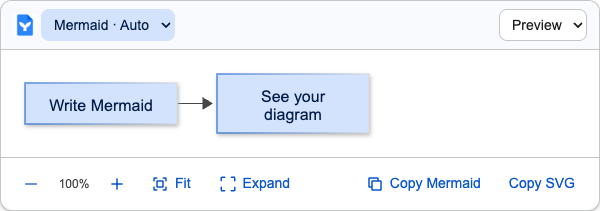
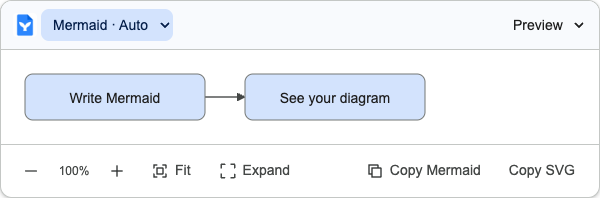
feat: unify Workspace styling across extension UI and diagrams

diff --git a/src/mermaid/themes.ts b/src/mermaid/themes.ts
@@ -1,0 +1,95 @@
+import { diagramSeries, geometry, palettes, type DesignTheme } from '../styles/design-tokens';
+export function mermaidTheme(theme: DesignTheme) {
+  const p = palettes[theme];
+  const series = diagramSeries[theme];
+  const categorical = Object.fromEntries(Array.from({ length: 12 }, (_, i) => [
+    [`cScale${i}`, series[i % series.length]], [`cScaleLabel${i}`, p.onSurface],
+    [`pie${i + 1}`, series[i % series.length]],
+    [`git${i}`, series[i % series.length]], [`gitBranchLabel${i}`, p.onSurface],
+    [`fillType${i}`, series[i % series.length]],
+  ]).flat());
+  return {
+    ...categorical,
+    darkMode: theme === 'dark', fontFamily: geometry.font, fontSize: '14px',
+    background: p.surface, textColor: p.onSurface,
+    primaryColor: p.primaryContainer, primaryTextColor: p.onPrimaryContainer, primaryBorderColor: p.outline,
+    secondaryColor: p.surfaceContainer, secondaryTextColor: p.onSurface, secondaryBorderColor: p.outline,
+    tertiaryColor: p.surfaceContainerLow, tertiaryTextColor: p.onSurface, tertiaryBorderColor: p.outlineVariant,
+    lineColor: p.onSurfaceVariant, defaultLinkColor: p.onSurfaceVariant,
+    nodeBorder: p.outline, mainBkg: p.primaryContainer,
+    clusterBkg: p.surfaceContainerLow, clusterBorder: p.outlineVariant,
+    edgeLabelBackground: p.surface,
+    actorBkg: p.primaryContainer, actorBorder: p.outline, actorTextColor: p.onPrimaryContainer,
+    actorLineColor: p.outline, signalColor: p.onSurfaceVariant, signalTextColor: p.onSurface,
+    labelBoxBkgColor: p.surfaceContainer, labelBoxBorderColor: p.outlineVariant, labelTextColor: p.onSurface,
+    loopTextColor: p.onSurface,
+    noteBkgColor: p.surfaceContainer, noteBorderColor: p.outlineVariant, noteTextColor: p.onSurface,
+    activationBkgColor: p.primaryContainer, activationBorderColor: p.outline,
+    classText: p.onSurface, nodeTextColor: p.onSurface,
+    labelColor: p.onSurface, relationColor: p.onSurfaceVariant, relationLabelColor: p.onSurface,
+    transitionColor: p.onSurfaceVariant, transitionLabelColor: p.onSurface,
+    stateBkg: p.primaryContainer, stateBorder: p.outline,
+    compositeBackground: p.surfaceContainerLow, compositeBorder: p.outlineVariant,
+    stateLabelColor: p.onSurface, labelBackgroundColor: p.surface,
+    compositeTitleBackground: p.surfaceContainer, altBackground: p.surfaceContainer,
+    personBkg: p.primaryContainer, personBorder: p.outline,
+    rowOdd: p.surface, rowEven: p.surfaceContainerLow,
+    taskBkgColor: p.primaryContainer, taskBorderColor: p.outline,
+    activeTaskBkgColor: p.primaryContainer, activeTaskBorderColor: p.primary,
+    doneTaskBkgColor: p.surfaceContainer, doneTaskBorderColor: p.outline,
+    critBkgColor: p.errorContainer, critBorderColor: p.error,
+    sectionBkgColor: p.surfaceContainerLow, sectionBkgColor2: p.surfaceContainer,
+    altSectionBkgColor: p.surface, gridColor: p.outlineVariant, todayLineColor: p.primary,
+    taskTextColor: p.onSurface, taskTextOutsideColor: p.onSurface,
+    taskTextLightColor: p.onSurface, taskTextDarkColor: p.onSurface,
+    pieTitleTextColor: p.onSurface, pieLegendTextColor: p.onSurface, pieSectionTextColor: p.onSurface,
+    pieStrokeColor: p.surface, pieStrokeWidth: '1px', pieOuterStrokeColor: p.outlineVariant, pieOuterStrokeWidth: '1px',
+    quadrant1Fill: p.surfaceContainerLow, quadrant2Fill: p.primaryContainer,
+    quadrant3Fill: p.surfaceContainer, quadrant4Fill: p.surface,
+    quadrant1TextFill: p.onSurface, quadrant2TextFill: p.onPrimaryContainer,
+    quadrant3TextFill: p.onSurface, quadrant4TextFill: p.onSurface,
+    quadrantPointFill: p.primary, quadrantPointTextFill: p.onSurface,
+    quadrantXAxisTextFill: p.onSurfaceVariant, quadrantYAxisTextFill: p.onSurfaceVariant,
+    quadrantInternalBorderStrokeFill: p.outlineVariant, quadrantExternalBorderStrokeFill: p.outline,
+    quadrantTitleFill: p.onSurface,
+    xyChart: { backgroundColor: p.surface, titleColor: p.onSurface,
+      xAxisLabelColor: p.onSurfaceVariant, xAxisTitleColor: p.onSurface, xAxisLineColor: p.outlineVariant,
+      yAxisLabelColor: p.onSurfaceVariant, yAxisTitleColor: p.onSurface, yAxisLineColor: p.outlineVariant,
+      plotColorPalette: series.join(',') },
+    requirementBackground: p.primaryContainer, requirementBorderColor: p.outline,
+    requirementBorderSize: '1px', requirementTextColor: p.onSurface,
+    relationLabelBackground: p.surface,
+    archEdgeColor: p.onSurfaceVariant, archEdgeArrowColor: p.onSurfaceVariant,
+    archEdgeWidth: geometry.diagramLineWidth, archGroupBorderColor: p.outlineVariant, archGroupBorderWidth: geometry.borderWidth,
+    errorBkgColor: p.errorContainer, errorTextColor: p.onErrorContainer,
+  };
+}
+
+/** Embed visual treatment in the exported SVG as well as the inline preview. */
+export function styleDiagramSvg(svg: string): string {
+  const doc = new DOMParser().parseFromString(svg, 'image/svg+xml');
+  const root = doc.documentElement;
+  if (root.localName !== 'svg' || doc.querySelector('parsererror')) throw new Error('Invalid Mermaid SVG');
+  for (const rect of root.querySelectorAll('.node rect, .cluster rect, rect.actor, rect.labelBox, rect.note')) {
+    // Preserve explicit rounded/stadium shapes and all non-rectangular diagram semantics.
+    if (Number(rect.getAttribute('rx') ?? 0) < geometry.radiusSmall) {
+      rect.setAttribute('rx', String(geometry.radiusSmall));
+      rect.setAttribute('ry', String(geometry.radiusSmall));
+    }
+  }
+  const id = root.id;
+  // Mermaid's generated ID is internal and contains only letters, digits and hyphens.
+  if (!/^gdm-\d+$/.test(id)) throw new Error('Unexpected SVG ID');
+  const style = doc.createElementNS('http://www.w3.org/2000/svg', 'style');
+  style.textContent = `
+#${id} .node rect,#${id} .node circle,#${id} .node ellipse,#${id} .node polygon,#${id} .node path,
+#${id} .cluster rect,#${id} rect.actor,#${id} rect.note,#${id} rect.labelBox,#${id} .activation0,#${id} .activation1,#${id} .activation2,#${id} .actor-line,#${id} .loopLine {
+filter:none!important;stroke-width:${geometry.borderWidth}px;}
+#${id} .edgePaths .path,#${id} .flowchart-link,#${id} .messageLine0,#${id} .messageLine1,#${id} .relation,#${id} .relationshipLine,#${id} .transition {
+stroke-width:${geometry.diagramLineWidth}px;stroke-linecap:round;stroke-linejoin:round;}
+#${id} .edge-thickness-thick{stroke-width:3px;}
+#${id} .edge-thickness-invisible{stroke-width:0;}
+`;
+  root.append(style);
+  return new XMLSerializer().serializeToString(root);
+}

diff --git a/src/styles/extension.css b/src/styles/extension.css
@@ -1,28 +1,28 @@
-@import './tokens.css';
 :host { all: initial; font-family: var(--gdm-font); font-size: 14px; }
 * { box-sizing: border-box; }
 .diagram {
   position: fixed; pointer-events: auto; font-family: var(--gdm-font); font-size: 14px; line-height: 1.4;
   color: var(--md-sys-color-on-surface); background: var(--md-sys-color-surface);
-  border: 1px solid var(--md-sys-color-outline-variant); border-radius: var(--gdm-radius-medium);
+  border: var(--gdm-border-width) solid var(--md-sys-color-outline-variant); border-radius: var(--gdm-radius-medium);
   box-shadow: var(--gdm-shadow); max-height: 70vh; overflow: auto;
 }
 header, nav { display: flex; align-items: center; gap: 4px; flex-wrap: wrap; padding: 8px 12px; }
-header { border-bottom: 1px solid var(--md-sys-color-outline-variant); background: var(--md-sys-color-surface-container-low); }
+header { border-bottom: var(--gdm-border-width) solid var(--md-sys-color-outline-variant); background: var(--md-sys-color-surface-container-low); }
 .block-logo { width: 24px; height: 24px; border-radius: 4px; }
 .view-select { margin-left: auto; }
 button, select { font: inherit; color: inherit; cursor: pointer; }
 button { display: inline-flex; align-items: center; justify-content: center; gap: 6px; min-height: 36px; padding: 0 12px;
-  border: 0; border-radius: 18px; background: transparent; color: var(--md-sys-color-primary);
+  border: 0; border-radius: 999px; background: transparent; color: var(--md-sys-color-on-surface-variant);
   transition: background var(--gdm-motion); }
 button:hover { background: color-mix(in srgb, var(--md-sys-color-primary) 8%, transparent); }
 button:active { background: color-mix(in srgb, var(--md-sys-color-primary) 12%, transparent); }
 button:disabled { color: var(--md-sys-color-on-surface); opacity: .38; cursor: default; }
 button:focus-visible, select:focus-visible { outline: 2px solid var(--md-sys-color-primary); outline-offset: 2px; }
-select { border: 1px solid var(--md-sys-color-outline-variant); border-radius: var(--gdm-radius-small); min-height: 32px; padding: 4px 8px;
-  background: var(--md-sys-color-surface); max-width: 100%; }
+select { border: 0; border-radius: var(--gdm-radius-small); min-height: 32px; padding: 4px 8px;
+  background: transparent; max-width: 100%; }
+select:hover { background: var(--md-sys-color-surface-container); }
 header select:first-of-type { color: var(--md-sys-color-on-primary-container); background: var(--md-sys-color-primary-container); border-color: transparent; }
-.icon { width: 18px; height: 18px; flex: none; }
+.icon { width: 18px; height: 18px; flex: none; stroke-width: var(--gdm-icon-line-width); }
 .icon-button { width: 36px; padding: 0; }
 .canvas { overflow: auto; padding: 16px; max-height: 50vh; min-height: 80px; }
 .canvas svg { width: 100%; height: auto; display: block; }
@@ -30,12 +30,12 @@ header select:first-of-type { color: var(--md-sys-color-on-primary-container); b
 .source-hint { display: block; padding: 8px 12px; }
 .error-badge { display: flex; align-items: center; gap: 8px; margin: 8px 12px; padding: 8px 12px; border-radius: var(--gdm-radius-small);
   background: var(--md-sys-color-error-container); color: var(--md-sys-color-on-error-container); font-size: 12px; }
-pre { margin: 0; white-space: pre-wrap; padding: 12px 16px; background: var(--md-sys-color-surface-container-low); border-top: 1px solid var(--md-sys-color-outline-variant); font: 12px/1.6 ui-monospace, monospace; }
-nav { border-top: 1px solid var(--md-sys-color-outline-variant); }
+pre { margin: 0; white-space: pre-wrap; padding: 12px 16px; background: var(--md-sys-color-surface-container-low); border-top: var(--gdm-border-width) solid var(--md-sys-color-outline-variant); font: 12px/1.6 ui-monospace, monospace; }
+nav { border-top: var(--gdm-border-width) solid var(--md-sys-color-outline-variant); }
 .zoom-label { min-width: 42px; text-align: center; color: var(--md-sys-color-on-surface-variant); font-size: 12px; font-variant-numeric: tabular-nums; }
 .toolbar-spacer { flex: 1; }
-.viewer-backdrop { z-index: 1; position: fixed; inset: 0; pointer-events: auto; background: #0006; }
-.expanded { z-index: 2; inset: 5vh 5vw; width: 90vw; max-height: 90vh; border-radius: var(--gdm-radius-large); box-shadow: 0 8px 32px #0004; }
+.viewer-backdrop { z-index: 1; position: fixed; inset: 0; pointer-events: auto; background: var(--gdm-scrim); }
+.expanded { z-index: 2; inset: 5vh 5vw; width: 90vw; max-height: 90vh; border-radius: var(--gdm-radius-dialog); box-shadow: var(--gdm-dialog-shadow); }
 .expanded .canvas { max-height: 70vh; }
 @media (pointer: coarse) { button, select { min-height: 48px; } .icon-button { width: 48px; } }
 @media (prefers-reduced-motion: reduce) { *, *::before, *::after { transition: none !important; animation: none !important; } }

diff --git a/tests/e2e/extension.spec.ts b/tests/e2e/extension.spec.ts
@@ -71,3 +71,50 @@ test('built extension renders, preserves valid preview, follows edits and remove
     await expect(page.locator('.diagram')).toHaveCount(0);
   } finally { await context.close(); await rm(profile, { recursive: true, force: true }); }
 });
+
+test('Workspace diagram styling preserves notation across diagram families', async () => {
+  const profile = await mkdtemp(path.join(os.tmpdir(), 'gdm-style-'));
+  const extension = path.resolve('.output/chrome-mv3');
+  const context = await chromium.launchPersistentContext(profile, {
+    channel: 'chromium', headless: true,
+    args: [`--disable-extensions-except=${extension}`, `--load-extension=${extension}`],
+  });
+  try {
+    await context.route('https://docs.google.com/**', route => route.fulfill({ contentType: 'text/html', body: '<!doctype html><html><body><pre data-code-block style="margin:40px;width:650px;min-height:100px">graph LR\nsubgraph Group\nA[Source]\nend\nA -.-> B{Valid?}\nB --> C([Preview])</pre></body></html>' }));
+    const page = await context.newPage();
+    await page.goto('https://docs.google.com/document/d/style-fixture/edit');
+    const preview = page.locator('google-docs-mermaid').locator('.canvas');
+    await expect(preview.locator('svg')).toBeVisible({ timeout: 15000 });
+    const card = preview.locator('.node rect').first();
+    await expect(card).toHaveAttribute('rx', '8');
+    const appearance = await card.evaluate(el => {
+      const style = getComputedStyle(el);
+      return { fill: style.fill, stroke: style.stroke, width: style.strokeWidth, filter: style.filter };
+    });
+    expect(appearance).toEqual({ fill: 'rgb(211, 227, 253)', stroke: 'rgb(116, 119, 117)', width: '1px', filter: 'none' });
+    const line = preview.locator('.flowchart-link').first();
+    expect(await line.evaluate(el => getComputedStyle(el).strokeWidth)).toBe('1.5px');
+    expect(await line.evaluate(el => getComputedStyle(el).strokeDasharray)).not.toBe('none');
+    await expect(preview.locator('.node polygon')).toHaveCount(1);
+    if (process.env.UPDATE_SCREENSHOTS) await page.locator('.diagram').screenshot({ path: 'docs/assets/diagram-shapes.png' });
+    const cases = [
+      { source: 'sequenceDiagram\nparticipant Browser\nparticipant Docs\nBrowser->>Docs: Render diagram\nNote over Docs: Local preview', selector: 'rect.actor', label: 'Local preview', screenshot: 'sequence-light' },
+      { source: 'classDiagram\nclass Diagram {\n+render()\n}\nclass Source\nSource --> Diagram', selector: '.node', label: 'Diagram', screenshot: 'class-light' },
+      { source: 'stateDiagram-v2\nDraft --> Preview: Render\nPreview --> Draft: Edit', selector: '.node', label: 'Draft', screenshot: 'state-light' },
+      { source: 'erDiagram\nDOCUMENT ||--o{ DIAGRAM : contains', selector: '.node', label: 'DOCUMENT', screenshot: 'relations-light' },
+      { source: 'pie\n"Docs" : 3\n"Diagrams" : 2', selector: 'svg', label: 'Docs', screenshot: 'pie-light' },
+      { source: 'gantt\n title Preview pipeline\n dateFormat YYYY-MM-DD\n section Rendering\n Parse :2026-10-06,1d\n Render :2026-10-07,1d', selector: 'svg', label: 'Preview pipeline', screenshot: 'gantt-light' },
+    ];
+    for (const example of cases) {
+      const previousId = await preview.locator('svg').getAttribute('id');
+      await page.locator('pre[data-code-block]').evaluate((el, source) => { el.textContent = source; }, example.source);
+      await expect(preview.locator('svg')).not.toHaveAttribute('id', previousId!);
+      await expect(preview).toContainText(example.label);
+      await expect(preview.locator(example.selector).first()).toBeVisible();
+      if (example.selector === 'rect.actor') await expect(preview.locator('rect.actor').first()).toHaveAttribute('rx', '8');
+      const hasShadow = await preview.locator(example.selector).evaluateAll(elements => elements.some(el => getComputedStyle(el).filter !== 'none'));
+      expect(hasShadow).toBe(false);
+      if (process.env.UPDATE_SCREENSHOTS) await page.locator('.diagram').screenshot({ path: `docs/assets/${example.screenshot}.png` });
+    }
+  } finally { await context.close(); await rm(profile, { recursive: true, force: true }); }
+});

diff --git a/src/styles/popup.css b/src/styles/popup.css
@@ -1,4 +1,3 @@
-@import './tokens.css';
 * { box-sizing: border-box; }
 html, body { margin: 0; padding: 0; }
 body { font-family: var(--gdm-font); font-size: 14px; }
@@ -7,10 +6,10 @@ body { font-family: var(--gdm-font); font-size: 14px; }
 .brand-logo { width: 48px; height: 48px; border-radius: 8px; }
 h1 { font-size: 18px; line-height: 24px; font-weight: 500; margin: 0; }
 .brand-subtitle { margin: 4px 0 0; color: var(--md-sys-color-on-surface-variant); font-size: 12px; }
-.settings-section { margin: 12px; padding: 4px 16px; background: var(--md-sys-color-surface); border: 1px solid var(--md-sys-color-outline-variant); border-radius: var(--gdm-radius-medium); }
+.settings-section { margin: 12px; padding: 4px 16px; background: var(--md-sys-color-surface); border: 0; border-radius: var(--gdm-radius-large); }
 .settings-section h2 { margin: 12px 0 4px; color: var(--md-sys-color-on-surface-variant); font-size: 12px; font-weight: 500; }
 .setting-row { display: flex; align-items: center; justify-content: space-between; gap: 12px; min-height: 64px; padding: 10px 0; cursor: pointer; }
-.setting-row + .setting-row { border-top: 1px solid var(--md-sys-color-outline-variant); }
+.setting-row + .setting-row { border-top: var(--gdm-border-width) solid var(--md-sys-color-outline-variant); }
 .setting-copy { display: block; }
 .setting-title { display: block; font-weight: 500; }
 .setting-description { display: block; font-size: 12px; color: var(--md-sys-color-on-surface-variant); margin-top: 2px; }
@@ -22,7 +21,7 @@ h1 { font-size: 18px; line-height: 24px; font-weight: 500; margin: 0; }
 .switch input:checked + .switch-track::after { width: 24px; height: 24px; margin: 2px; background: var(--md-sys-color-on-primary); transform: translateX(20px); }
 .switch input:focus-visible + .switch-track { outline: 2px solid var(--md-sys-color-primary); outline-offset: 4px; }
 .switch input:disabled + .switch-track { opacity: .38; }
-select { font: inherit; padding: 8px 10px; min-height: 40px; background: var(--md-sys-color-surface); color: inherit; border: 1px solid var(--md-sys-color-outline); border-radius: var(--gdm-radius-small); }
+select { font: inherit; padding: 8px 10px; min-height: 40px; background: var(--md-sys-color-surface); color: inherit; border: var(--gdm-border-width) solid var(--md-sys-color-outline); border-radius: var(--gdm-radius-small); }
 select:focus-visible, a:focus-visible { outline: 2px solid var(--md-sys-color-primary); outline-offset: 3px; }
 .popup-footer { padding: 4px 20px 16px; color: var(--md-sys-color-on-surface-variant); font-size: 12px; }
 .popup-footer p { margin: 8px 0; }

diff --git a/src/styles/design-tokens.ts b/src/styles/design-tokens.ts
@@ -1,0 +1,42 @@
+/** Shared Workspace-inspired desktop treatment. Not a private Google Docs API. */
+export const geometry = {
+  radiusSmall: 8, radiusMedium: 12, radiusLarge: 16, radiusDialog: 28,
+  borderWidth: 1, diagramLineWidth: 1.5, iconLineWidth: 2,
+  font: "'Google Sans', Roboto, Arial, sans-serif",
+  shadow: '0 1px 3px #00000026, 0 2px 6px #00000014',
+  dialogShadow: '0 6px 24px #00000026',
+  scrim: '#00000052',
+};
+export const palettes = {
+  light: {
+    primary: '#0b57d0', onPrimary: '#ffffff', primaryContainer: '#d3e3fd', onPrimaryContainer: '#041e49',
+    surface: '#ffffff', surfaceContainer: '#f0f4f9', surfaceContainerLow: '#f8fafd',
+    onSurface: '#1f1f1f', onSurfaceVariant: '#444746', outline: '#747775', outlineVariant: '#c4c7c5',
+    error: '#b3261e', errorContainer: '#f9dedc', onErrorContainer: '#410e0b',
+  },
+  dark: {
+    primary: '#a8c7fa', onPrimary: '#062e6f', primaryContainer: '#0842a0', onPrimaryContainer: '#d3e3fd',
+    surface: '#1f1f1f', surfaceContainer: '#2d2f31', surfaceContainerLow: '#282a2c',
+    onSurface: '#e3e3e3', onSurfaceVariant: '#c4c7c5', outline: '#8e918f', outlineVariant: '#444746',
+    error: '#f2b8b5', errorContainer: '#601410', onErrorContainer: '#f9dedc',
+  },
+} as const;
+// Tonal blue, green, yellow and red preserve categorical chart meaning.
+export const diagramSeries = {
+  light: ['#d3e3fd', '#c4eed0', '#fff2c6', '#f9dedc', '#c2e7ff', '#e9ddff'],
+  dark: ['#0842a0', '#0f5223', '#5c4300', '#601410', '#004a77', '#4f378b'],
+} as const;
+export type DesignTheme = keyof typeof palettes;
+const kebab = (value: string) => value.replace(/[A-Z]/g, letter => `-${letter.toLowerCase()}`);
+const colors = (theme: DesignTheme) => Object.entries(palettes[theme])
+  .map(([name, value]) => `--md-sys-color-${kebab(name)}:${value};`).join('');
+export const designTokenCss = `
+:root,:host,.light{${colors('light')}
+--gdm-font:${geometry.font};
+--gdm-radius-small:${geometry.radiusSmall}px;--gdm-radius-medium:${geometry.radiusMedium}px;
+--gdm-radius-large:${geometry.radiusLarge}px;--gdm-radius-dialog:${geometry.radiusDialog}px;
+--gdm-border-width:${geometry.borderWidth}px;--gdm-icon-line-width:${geometry.iconLineWidth};
+--gdm-shadow:${geometry.shadow};--gdm-dialog-shadow:${geometry.dialogShadow};--gdm-scrim:${geometry.scrim};
+--gdm-motion:150ms cubic-bezier(.2,0,0,1);color-scheme:light;}
+.dark{${colors('dark')}color-scheme:dark;}
+`;

diff --git a/src/mermaid/renderer.ts b/src/mermaid/renderer.ts
@@ -1,4 +1,5 @@
 import DOMPurify from 'dompurify';
+import { mermaidTheme, styleDiagramSvg } from './themes';
 export type Theme = 'light' | 'dark';
 export type RenderResult = { svg: string; error?: never } | { error: string; svg?: never };
 const cache = new Map<string, string>();
@@ -12,23 +13,13 @@ export function renderMermaid(source: string, theme: Theme): Promise<RenderResul
     try {
       const mermaid = (await import('mermaid')).default;
       mermaid.initialize({ startOnLoad: false, securityLevel: 'strict', theme: 'base',
-        themeVariables: {
-          darkMode: theme === 'dark', fontFamily: 'Arial, sans-serif',
-          background: theme === 'dark' ? '#1f1f1f' : '#ffffff',
-          primaryColor: theme === 'dark' ? '#0842a0' : '#d3e3fd',
-          primaryTextColor: theme === 'dark' ? '#d3e3fd' : '#041e49',
-          primaryBorderColor: theme === 'dark' ? '#a8c7fa' : '#0b57d0',
-          secondaryColor: theme === 'dark' ? '#2d2f31' : '#f0f4f9',
-          tertiaryColor: theme === 'dark' ? '#282a2c' : '#f8fafd',
-          lineColor: theme === 'dark' ? '#c4c7c5' : '#444746',
-          textColor: theme === 'dark' ? '#e3e3e3' : '#1f1f1f',
-        },
+        look: 'classic', themeVariables: mermaidTheme(theme),
         suppressErrorRendering: true, maxTextSize: 50000, htmlLabels: false,
         secure: ['securityLevel', 'startOnLoad', 'maxTextSize', 'maxEdges', 'suppressErrorRendering', 'secure', 'htmlLabels'],
         flowchart: { htmlLabels: false } });
       if (!await mermaid.parse(source, { suppressErrors: true })) return { error: 'Mermaid syntax error' };
       const { svg } = await mermaid.render(`gdm-${++sequence}`, source);
-      const safe = DOMPurify.sanitize(svg, { USE_PROFILES: { svg: true, svgFilters: true }, FORBID_TAGS: ['foreignObject', 'a', 'image'], FORBID_ATTR: ['href', 'xlink:href'] });
+      const safe = DOMPurify.sanitize(styleDiagramSvg(svg), { USE_PROFILES: { svg: true, svgFilters: true }, FORBID_TAGS: ['foreignObject', 'a', 'image'], FORBID_ATTR: ['href', 'xlink:href'] });
       cache.set(key, safe);
       if (cache.size > 100) cache.delete(cache.keys().next().value!);
       return { svg: safe };

diff --git a/src/entrypoints/content.tsx b/src/entrypoints/content.tsx
@@ -7,6 +7,7 @@ import type { CodeBlock } from '../docs/adapter';
 import { DiagramBlock } from '../components/DiagramBlock';
 import { defaults, documentKey, readPreferences, type Preferences } from '../state/preferences';
 import styles from '../styles/extension.css?inline';
+import { designTokenCss } from '../styles/design-tokens';
 
 export function Overlay() {
   const [blocks, setBlocks] = useState<CodeBlock[]>([]);
@@ -36,7 +37,7 @@ export default defineContentScript({
     const host = document.createElement('google-docs-mermaid');
     host.style.cssText = 'position:fixed;inset:0;pointer-events:none;z-index:2147483000';
     const shadow = host.attachShadow({ mode: 'open' });
-    const style = document.createElement('style'); style.textContent = styles; shadow.append(style);
+    const style = document.createElement('style'); style.textContent = designTokenCss + styles; shadow.append(style);
     const container = document.createElement('div'); shadow.append(container);
     document.body.append(host);
     const root = createRoot(container); root.render(<Overlay />);

diff --git a/src/entrypoints/popup/main.tsx b/src/entrypoints/popup/main.tsx
@@ -3,6 +3,7 @@ import { useEffect, useState } from 'react';
 import { browser } from 'wxt/browser';
 import { defaults, readPreferences, documentKey, type Preferences } from '../../state/preferences';
 import '../../styles/popup.css';
+import { designTokenCss } from '../../styles/design-tokens';
 
 function SettingSwitch({ label, description, checked, disabled, onChange }: {
   label: string; description: string; checked: boolean; disabled?: boolean; onChange: (value: boolean) => void;
@@ -56,6 +57,7 @@ function Popup() {
   };
   const disabled = !loaded || saving;
   return <main className={`popup ${theme}`} aria-busy={!loaded}>
+    <style>{designTokenCss}</style>
     <header className="brand-header">
       <img className="brand-logo" src="/icons/128.png" width="48" height="48" alt="" />
       <div><h1>Mermaid for Google Docs</h1><p className="brand-subtitle">Diagrams, right where you write.</p></div>

diff --git a/src/components/Icon.tsx b/src/components/Icon.tsx
@@ -1,3 +1,4 @@
+import { geometry } from '../styles/design-tokens';
 const paths = {
   minus: 'M5 12h14', plus: 'M5 12h14M12 5v14',
   expand: 'M8 3H3v5M16 3h5v5M3 16v5h5M21 16v5h-5',
@@ -7,5 +8,5 @@ const paths = {
   warning: 'm12 3 10 18H2L12 3zM12 9v5M12 17h.01',
 };
 export function Icon({ name }: { name: keyof typeof paths }) {
-  return <svg className="icon" viewBox="0 0 24 24" fill="none" stroke="currentColor" strokeWidth="1.8" strokeLinecap="round" strokeLinejoin="round" aria-hidden="true"><path d={paths[name]} /></svg>;
+  return <svg className="icon" viewBox="0 0 24 24" fill="none" stroke="currentColor" strokeWidth={geometry.iconLineWidth} strokeLinecap="round" strokeLinejoin="round" aria-hidden="true"><path d={paths[name]} /></svg>;
 }

diff --git a/playwright.config.ts b/playwright.config.ts
@@ -1,2 +1,2 @@
 import { defineConfig } from '@playwright/test';
-export default defineConfig({ testDir: './tests/e2e', use: { headless: true }, reporter: 'list' });
+export default defineConfig({ testDir: './tests/e2e', use: { headless: true, actionTimeout: 10000 }, reporter: 'list' });

diff --git a/docs/design-system.md b/docs/design-system.md
@@ -18,7 +18,7 @@ The extension is Manifest V3, not an Apps Script or Card-service add-on. Card wi
 
 ## Shared tokens
 
-`src/styles/tokens.css` is the source for popup and Shadow DOM styling. Use semantic roles, not feature-specific color literals.
+`src/styles/design-tokens.ts` is the source for popup and Shadow DOM styling. Use semantic roles, not feature-specific color literals.
 
 | Role | Light | Dark |
 | --- | --- | --- |
@@ -35,7 +35,7 @@ These are Workspace-inspired project palette values, not a claim that Google pub
 
 - Use 4px increments for spacing, with 12–16px content padding.
 - Popup: 360px wide; 18px/24px title, 14px body, 12px supporting text.
-- Inline preview: 12px corners; expanded viewer: 16px corners; text buttons: pill shape.
+- Inline preview: 12px corners; settings surfaces: 16px corners; expanded viewer: 28px corners; text buttons: pill shape.
 - Keep the document visually dominant. Brand the popup header and show only a small logo in each block's header.
 - Keep actions readable at rest. Do not reduce toolbar text opacity merely to make the UI look quiet.
 - Use icons to support labels; icon-only buttons need accessible names and tooltips.
@@ -60,4 +60,20 @@ Check the popup and diagram in both themes, keyboard-only navigation, focus visi
 
 ## Diagram colors
 
-Mermaid uses its customizable base theme with matching blue node fills, neutral connectors, and Arial labels. Renderer theme variables mirror the semantic light/dark palette. Source-provided diagram styling can still change individual nodes; we do not rewrite user source.
+Mermaid uses its customizable base theme with matching blue node fills, neutral connectors, and the same local font stack as the controls. Renderer theme variables are derived from the same light/dark palette used by the UI. Source-provided diagram styling can still change individual nodes; we do not rewrite user source.
+
+## Consistency pass
+
+The shared TypeScript tokens generate the popup/overlay CSS variables and Mermaid theme values. Colors cannot drift between separately maintained CSS and renderer palettes. Flat, softly rounded diagram cards use 8px corners, 1px neutral outlines, and 1.5px connectors. Toolbar icons use a consistent 2px stroke; UI dividers remain 1px. Native toolbar selectors use quiet backgrounds instead of boxed input borders. Settings cards use tonal separation and 16px corners rather than outlining every section.
+
+Mermaid's classic look avoids its automatic node shadows. The SVG receives embedded shape and line styling before sanitization, so copying SVG retains the same appearance. Flowchart diamonds, circles, stadium shapes, dashed connectors, and deliberately thick/invisible edges retain their meaning. Diagram-specific theme variables also cover actors, notes, activations, clusters, state/class labels, relations, timeline/category colors, pie/XY charts, Gantt tasks, and architecture edges. Explicit source-provided colors remain available for semantic emphasis; the document source is never rewritten.
+
+Google confirms that the [Workspace web refresh follows Material Design 3](https://workspaceupdates.googleblog.com/2023/03/refreshed-ui-google-drive-docs-sheets-slides.html). The [Material shape guidance](https://developer.android.com/codelabs/m3-design-theming) informs our role-based corner hierarchy. Exact internal Docs component tokens are not a public API, so these values are our documented Workspace-aligned implementation rather than a pixel-perfect certification.
+
+## Rendered examples
+
+These are screenshots of the built extension on fixtures, not native canvas compatibility claims.
+
+![Flowchart with semantic shapes and a dashed connector](assets/diagram-shapes.png)
+
+![Sequence diagram with matching actors and note surfaces](assets/sequence-light.png)

diff --git a/docs/architecture.md b/docs/architecture.md
@@ -14,6 +14,6 @@ The initial adapter deliberately does not guess internal canvas selectors or cla
 
 ## UI and branding
 
-The popup and isolated overlay share semantic CSS variables from `src/styles/tokens.css`. The popup uses native checkbox-backed switches and selects; inline previews use compact native controls and labeled SVG icons. Expanded view contains focus and restores it on close. Both surfaces support light/dark preferences and reduced motion.
+The popup and isolated overlay share semantic CSS variables from `src/styles/design-tokens.ts`. The popup uses native checkbox-backed switches and selects; inline previews use compact native controls and labeled SVG icons. Expanded view contains focus and restores it on close. Both surfaces support light/dark preferences and reduced motion.
 
 Chrome uses the supplied logo at 16/32/48/128px. The inline header loads only the 32px icon through a narrowly scoped web-accessible resource for Docs URLs. This static packaged asset adds no document-data upload or remote dependency. See [Design system](design-system.md).
